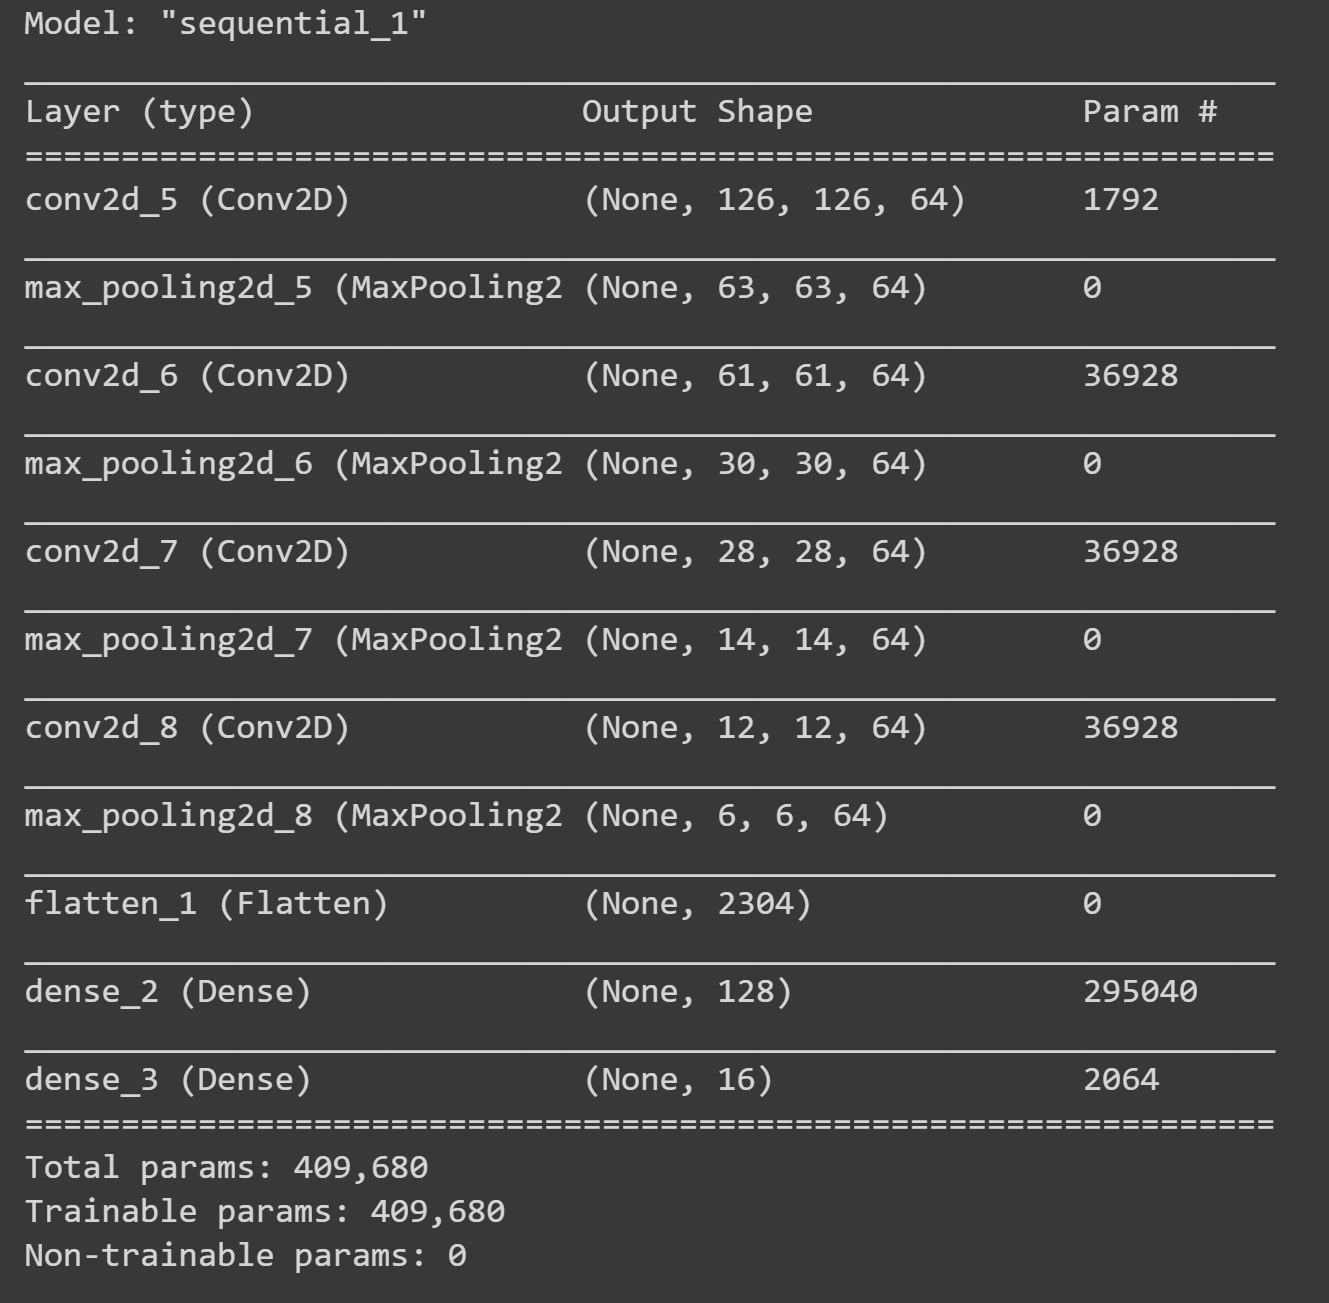
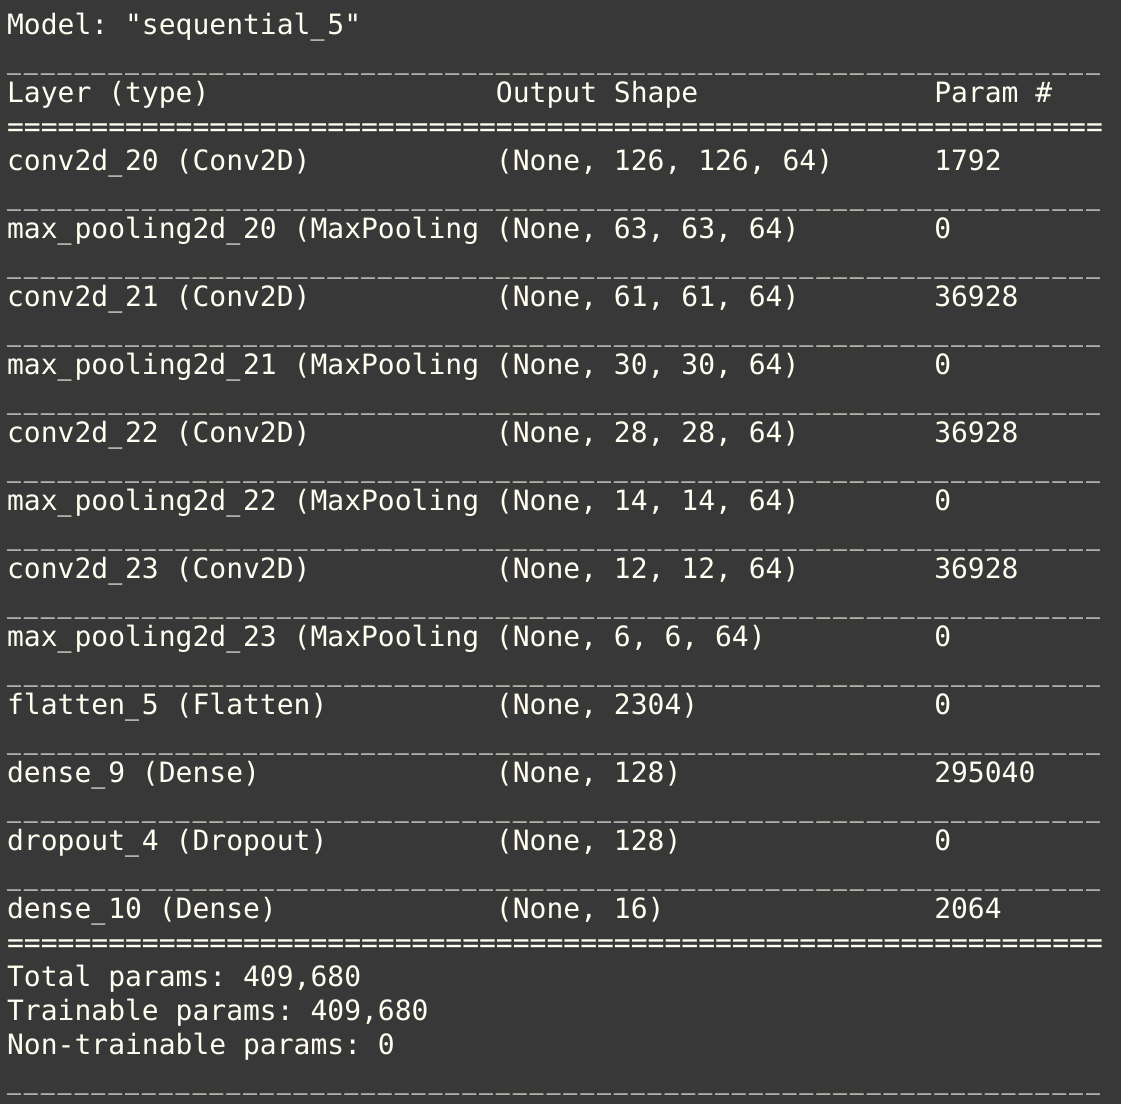
feat: Finished eval function, added new model trainec based on new hyperparams, updated README

diff --git a/evaluator.py b/evaluator.py
@@ -5,33 +5,37 @@ from test import character_predict
 
 
 def image_preprocess(image):
+    image = cv2.cvtColor(image, cv2.COLOR_BGR2GRAY)
     thresh = cv2.adaptiveThreshold(image, 255, cv2.ADAPTIVE_THRESH_GAUSSIAN_C,
-                                   cv2.THRESH_BINARY, 199, 32)
+                                   cv2.THRESH_BINARY, 199, 80)
 
+    inv = cv2.bitwise_not(thresh)
     blur = cv2.GaussianBlur(thresh, (5, 5), cv2.BORDER_DEFAULT)
     kernel = np.ones((5, 5), np.uint8)
-    blur = cv2.dilate(blur, kernel, iterations=1)
+    dil = cv2.dilate(inv, kernel, iterations=1)
+    kernel = np.ones((5, 5), np.uint8)
+    er = cv2.erode(dil, kernel, iterations=2)
+    return er
 
-    thresh = cv2.bitwise_not(blur)
-    return thresh
 
+def seg_predict(prep, cnt):
 
-def seg_predict(image, cnt):
-    # TODO: morphx_ex
     character_image = []
-
+    image = cv2.bitwise_not(prep)
     for i, ctr in enumerate(cnt):
 
         x, y, w, h = cv2.boundingRect(ctr)
-        roi = image[y-15:y+h+15, x-15:x+w+15]
-        roi_f = cv2.resize(
-            roi, (128, 128), interpolation=cv2.INTER_AREA)
-
-        roi_f = cv2.cvtColor(roi_f, cv2.COLOR_BGR2RGB)
-        character_image.append(roi_f)
-        # cv2.imshow('character'+str(i), roi_f)
+        roi = image[y:y+h, x:x+w]
+        cv2.imshow('character'+str(i), roi)
 
         cv2.waitKey(0)
+        roi_f = cv2.resize(
+            roi, (128, 128), interpolation=cv2.INTER_AREA)
+        cv2.imwrite('Details/character'+str(i) + ".jpg", roi_f)
+        roi_f = cv2.cvtColor(roi_f, cv2.COLOR_BGR2RGB)
+
+        print(character_predict(roi_f))
+        character_image.append(roi_f)
 
     return list(map(character_predict, character_image))
 
@@ -39,6 +43,7 @@ def seg_predict(image, cnt):
 def calculate(character):
     op1 = 0
     op2 = 0
+    op = '+'
     flag = False
 
     for i in range(len(character)):
@@ -46,6 +51,7 @@ def calculate(character):
             op1 = op1*10 + int(character[i])
 
         if character[i].isdigit() == False:
+            op = character[i]
             flag = True
 
         if character[i].isdigit() and flag:
@@ -53,25 +59,30 @@ def calculate(character):
 
     ops = {"+": operator.add, "-": operator.sub,
            "*": operator.mul, "/": operator.truediv}
-    return ops[character[1]](op1, op2)
+    print(str(op1) + " " + op + " " + str(op2) +
+          " = " + str(ops[op](op1, op2)))
 
 
 def main(image_path):
-    image = cv2.imread(image_path, 0)
-    # scale = 40
-    # width = int(image.shape[1] * scale / 100)
-    # height = int(image.shape[0] * scale / 100)
-    # dim = (width, height)
-    # image = cv2.resize(
-    #     image, dim, interpolation=cv2.INTER_AREA)
-    prepped = image_preprocess(image)
-    ctrs, hier = cv2.findContours(prepped, cv2.RETR_EXTERNAL,
+
+    orig = cv2.imread(image_path)
+    (H, W, _) = orig.shape
+    if H > W:
+        orig = cv2.rotate(orig, cv2.ROTATE_90_CLOCKWISE)
+
+    processed = image_preprocess(orig)
+    cv2.imshow('image', processed)
+    cv2.waitKey(0)
+
+    kernel = np.ones((5, 5), np.uint8)
+    intermediate = cv2.dilate(processed, kernel, iterations=2)
+
+    ctrs, hier = cv2.findContours(intermediate, cv2.RETR_EXTERNAL,
                                   cv2.CHAIN_APPROX_SIMPLE)
     sorted_ctrs = sorted(ctrs, key=lambda ctr: cv2.boundingRect(ctr)[0])
 
-    characters = seg_predict(image, sorted_ctrs)
-    output = calculate(characters)
-    print(output)
+    characters = seg_predict(processed, sorted_ctrs)
+    calculate(characters)
 
 
 if __name__ == "__main__":

diff --git a/train.py b/train.py
@@ -24,11 +24,11 @@ class Model:
 
         train_datagen = ImageDataGenerator(
             rescale=1./255,
-            width_shift_range=0.2,
-            height_shift_range=0.2,
+            rotation_range=5,
+            width_shift_range=0.1,
+            height_shift_range=0.1,
             shear_range=0.2,
             zoom_range=0.2,
-            # horizontal_flip=True,
             fill_mode='nearest'
         )
         test_datagen = ImageDataGenerator(
@@ -38,14 +38,14 @@ class Model:
         training_gen = train_datagen.flow_from_directory(
             self.train,
             target_size=(128, 128),
-            batch_size=50,
+            batch_size=30,
             class_mode='categorical',
             shuffle=True)
 
         validation_gen = test_datagen.flow_from_directory(
             self.valid,
             target_size=(128, 128),
-            batch_size=50,
+            batch_size=30,
             class_mode='categorical')
 
         return (training_gen, validation_gen)
@@ -67,7 +67,7 @@ class Model:
 
     The model uses:
         - loss: Categorical CrossEntropy loss
-        - optimizer: SGD with lr = 1E-2 and momentum of 0.9
+        - optimizer: Adam with lr = 1E-3 and decay of 1E-5
         - metric: Accuracy
     '''
 
@@ -90,6 +90,7 @@ class Model:
 
         model.add(Flatten())
         model.add(Dense(128, activation='relu'))
+        model.add(Dropout(0.3))
         model.add(Dense(16, activation='softmax',
                         kernel_regularizer=ks.regularizers.l1(1e-3)))
 
@@ -108,7 +109,7 @@ class Model:
         model.summary()
         model.compile(
             loss="categorical_crossentropy",
-            optimizer=ks.optimizers.SGD(lr=0.01, momentum=0.9),
+            optimizer=ks.optimizers.Adam(lr=1e-3, decay=1e-5),
             metrics=['accuracy']
         )
 

diff --git a/test.py b/test.py
@@ -12,17 +12,16 @@ def character_predict(image, model_path="model/model-bst.h5"):
     # image = cv2.imread(image)
     image = image.astype('float') / 255.0
 
-    image = cv2.resize(
-        image, (128, 128))
     image = ks.preprocessing.image.img_to_array(image)
     image = np.expand_dims(image, axis=0)
 
     pred = model.predict(image)
     print(pred)
     # TODO: Retrain model in Colab and uncomment below
-    # ic = pred.argmax(axis=1)[0]
-    ic = np.argsort(-pred, axis=1)[0][1]
+    ic = pred.argmax(axis=1)[0]
+    # ic = np.argsort(-pred, axis=1)[0][1]
     image_class = [".", "/", "8", "=", "5", "4", "-",
                    "9", "1", "+", "7", "6", "3", "*", "2", "0"]
 
     return image_class[ic]
+

diff --git a/README.md b/README.md
@@ -1,7 +1,8 @@
-# The Simple Calculator
+# The AI Calculator
 
 <p>A very basic calculator that understands handwritten math expressions and returns the evaluated answer.</p>
 <p>The software translates basic handwritten arithematic equations to machine readable ones and evaluates them.</p>
+<code>NOTE: Works well with Marker/Sketchpen text on plain white sheet.</code>
 
 ## Pipeline
 
@@ -16,10 +17,29 @@
 
 A basic CNN with 3 sets of CNN layers and 2 Dense layers having a total of approximately 410,000 parameters.
 
-<img src="./Details/summary.png" alt="Summary- CNN">
+<img src="Details/summary.png" alt="Summary- CNN">
 
 - The model was trained with 7315 training images and 1252 validation images (Thanks to [clarence zhao](https://www.kaggle.com/clarencezhao) for the [dataset](https://www.kaggle.com/clarencezhao/handwritten-math-symbol-dataset)).
 
 - The model achieved a training accuracy of 97% with a training loss of 11%, and validation accuracy of 98% with 9% validation loss and was trained for 20 epochs.
 
-<img src="./Details/stats.png" alt="Metrics- CNN">
+<img src="Details/stats.png" alt="Metrics- CNN">
+
+## Working
+
+- The algorithm takes in an image of any size and performs character segmentation using openCV
+- Individual characters undergo character prediction using the CNN model.
+- Based on number of consecutive numbers detected, the algo creates either an n-digit number and performs the specified operation.
+
+  ### Input image:
+
+  <img src="test-image.jpg" alt="test image">
+
+  ### Output Image:
+
+  <img src="Details/output.jpg" alt="Output">
+
+## Improvements Needed
+
+- Much better dataset with lot of variation
+- Better character segmentation
